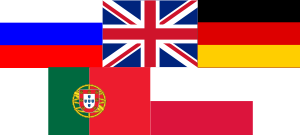
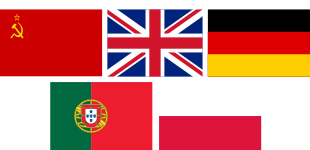
разделил флаги

diff --git a/index.html b/index.html
@@ -35,7 +35,7 @@
 	<div id="logo">
 		<!--<img src="images/znachek2.jpg" width="100px" height="100px"></img>-->
 		<!--Lang select: Русский язык, Английский, Немецкий, Польский, Португальский-->
-		<img style="float:right;" src="images/flags.png" alt="Выбор языка" width="90px" height="40px"></img>
+		<img style="float:right;padding-top:8px;" src="images/flags.png" alt="Выбор языка" width="90px" height="40px"></img>
 	</div>
 	<div id="h_video"><!-- Video, scr. -->
 		<div id="h_video_container">
